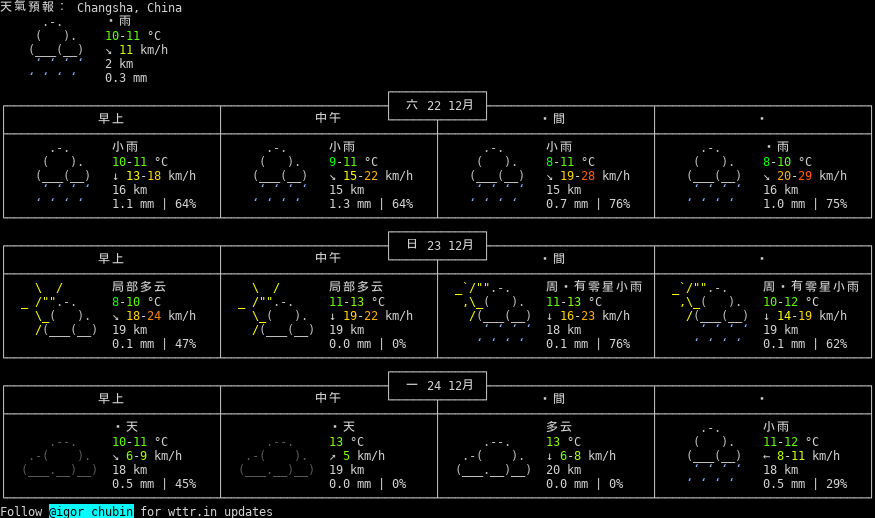
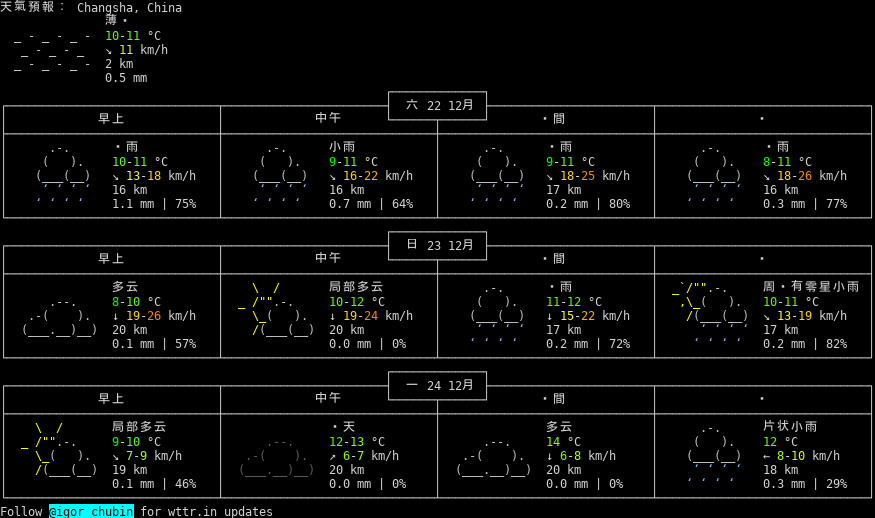
update Today's log:)

diff --git a/README.md b/README.md
@@ -3586,3 +3586,4 @@ My Shell_script learning note
 * 2018年12月22日 星期Sat AM 6:00 CST   天气: 8-10°C (Heiwajima, Japan)
 * 2018年12月22日 星期Sat AM 6:20 CST   天气: 8-10°C (Heiwajima, Japan)
 * 2018年12月22日 星期Sat AM 6:40 CST   天气: 8-10°C (Heiwajima, Japan)
+* 2018年12月22日 星期Sat AM 7:00 CST   天气: 8-10°C (Heiwajima, Japan)

diff --git a/weather.md b/weather.md
@@ -14173,3 +14173,7 @@
 
 ![](PNG/20181222.png)
 
+2018年 12月 22日
+
+![](PNG/20181222.png)
+
